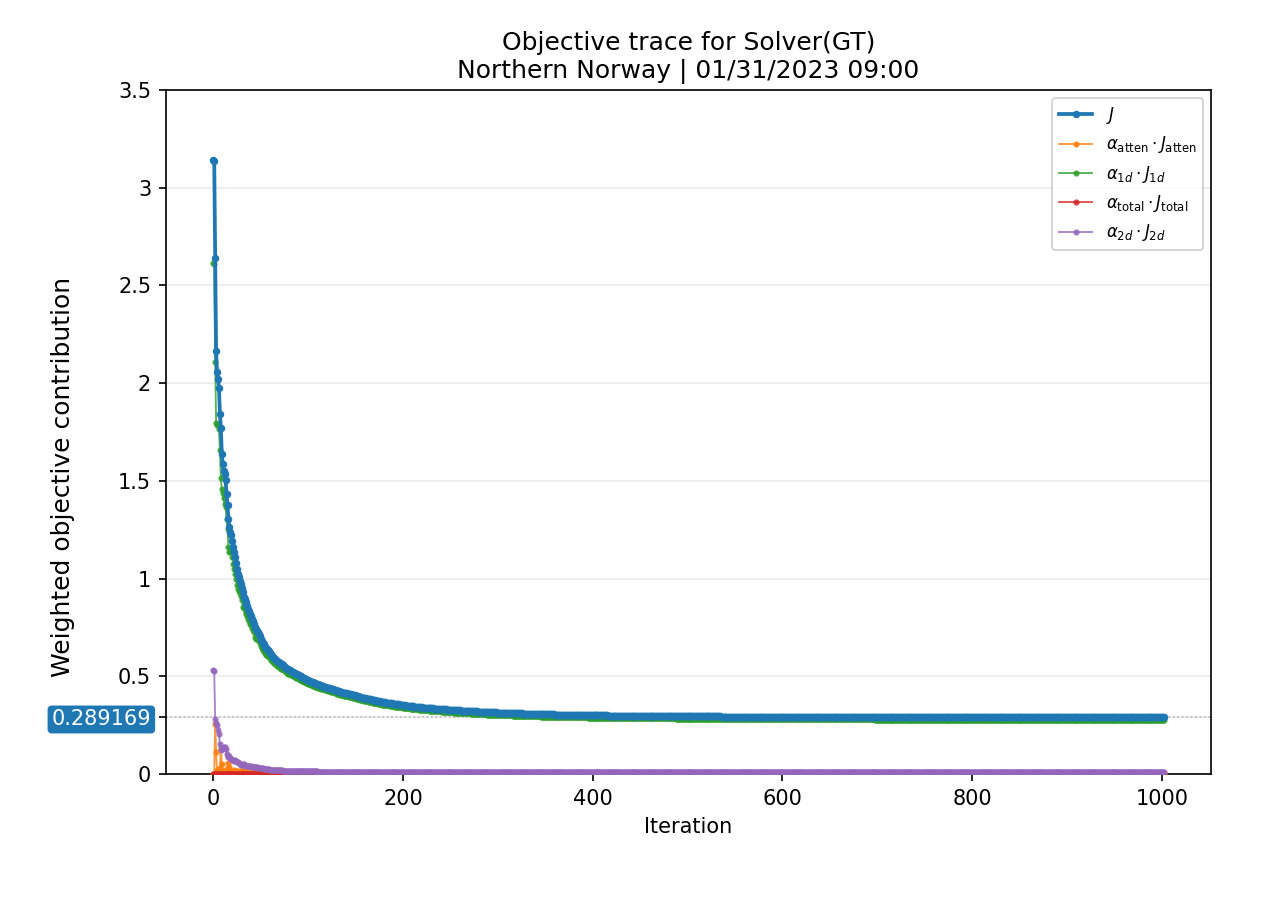
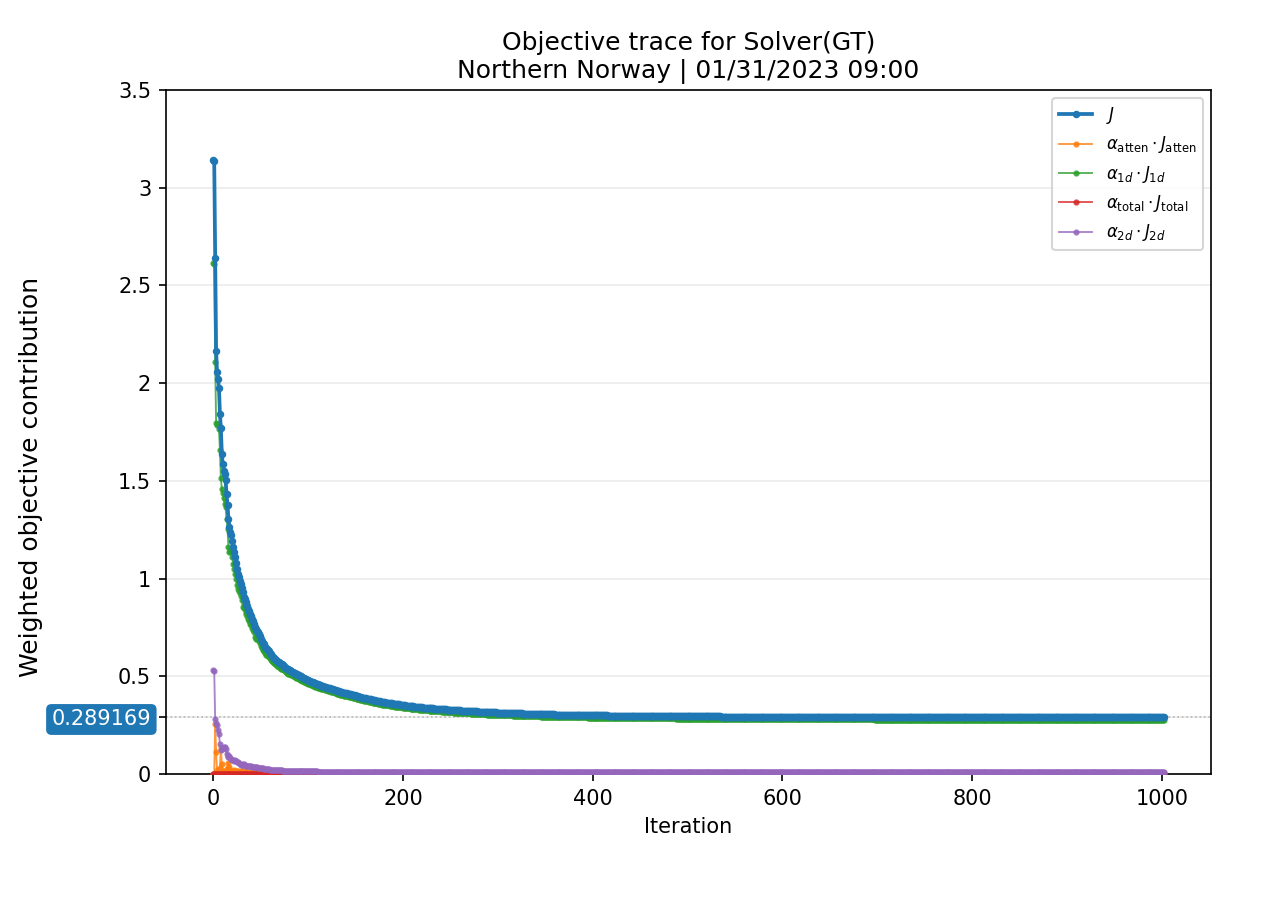
Refine case study objective traces

Changed region(s): [[0.0, 0.3111, 0.0612, 0.7467]]

diff --git a/Compute-Link-Attenuations/render_analysis_report.py b/Compute-Link-Attenuations/render_analysis_report.py
@@ -1252,11 +1252,13 @@ def plot_j_behavior(
                     {
                         "facecolor": "#1f77b4",
                         "edgecolor": "#1f77b4",
-                        "boxstyle": "round,pad=0.15",
+                        "boxstyle": "round,pad=0.22",
                         "linewidth": 0.8,
+                        "alpha": 1.0,
                     }
                 )
                 tick_label.set_color("white")
+                tick_label.set_zorder(6)
             else:
                 tick_label.set_bbox(None)
                 tick_label.set_color("black")
@@ -1318,9 +1320,9 @@ def plot_j_behavior(
             axes = [ax]
 
         ax.set_xlabel("Iteration")
-        ax.set_ylabel("Weighted objective contribution")
         for axis in axes:
             axis.grid(axis="y", alpha=0.25)
+        fig.supylabel("Weighted objective contribution", x=0.015, y=0.47)
         fig.subplots_adjust(left=0.13, right=0.95, bottom=0.14, top=0.90)
         fig.savefig(out_png, dpi=dpi)
         plt.close(fig)
@@ -1364,10 +1366,10 @@ def plot_j_behavior(
         inner_iters = max(0, len(rows) - 1)
         beta_str = f"{beta:.2f}" if math.isfinite(beta) else "NA"
         ax.set_title(f"Stage {stage_id + 1} (beta={beta_str}, inner iterations={inner_iters})", fontsize=10)
-        ax.set_ylabel("Weighted objective\ncontribution")
         ax.grid(axis="y", alpha=0.25)
     axes[0].legend(loc="best", fontsize=8)
     axes[-1].set_xlabel("Inner iteration within stage")
+    fig.supylabel("Weighted objective contribution", x=0.015, y=0.5)
     fig.suptitle(title)
     fig.tight_layout(rect=(0.0, 0.0, 1.0, 0.97))
     fig.savefig(out_png, dpi=dpi)
